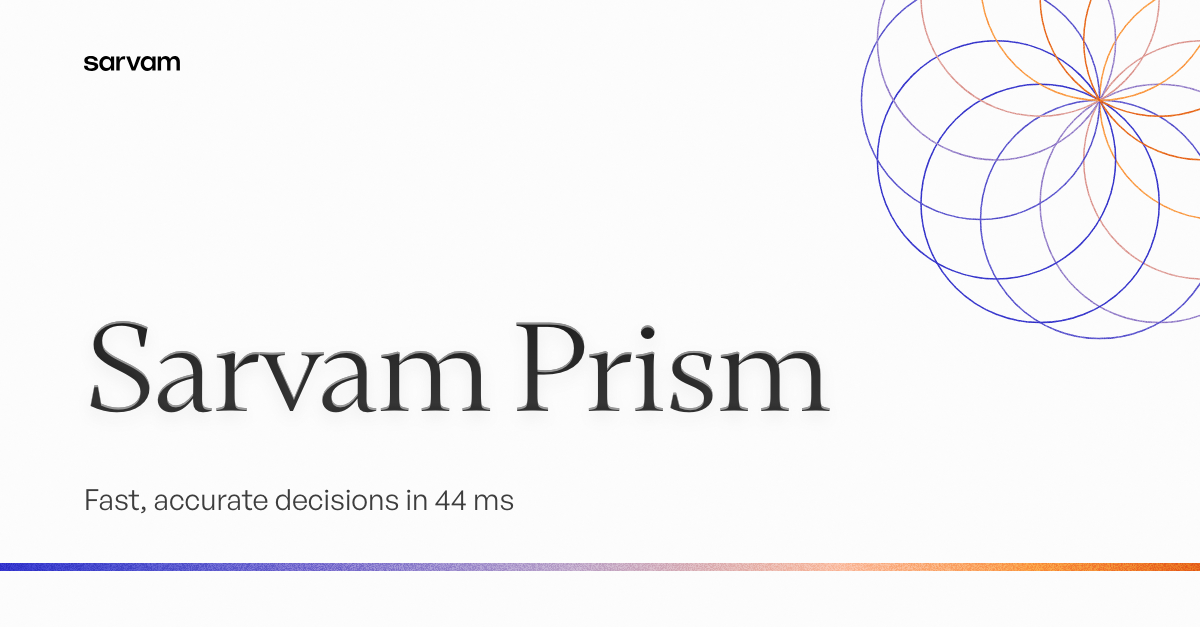
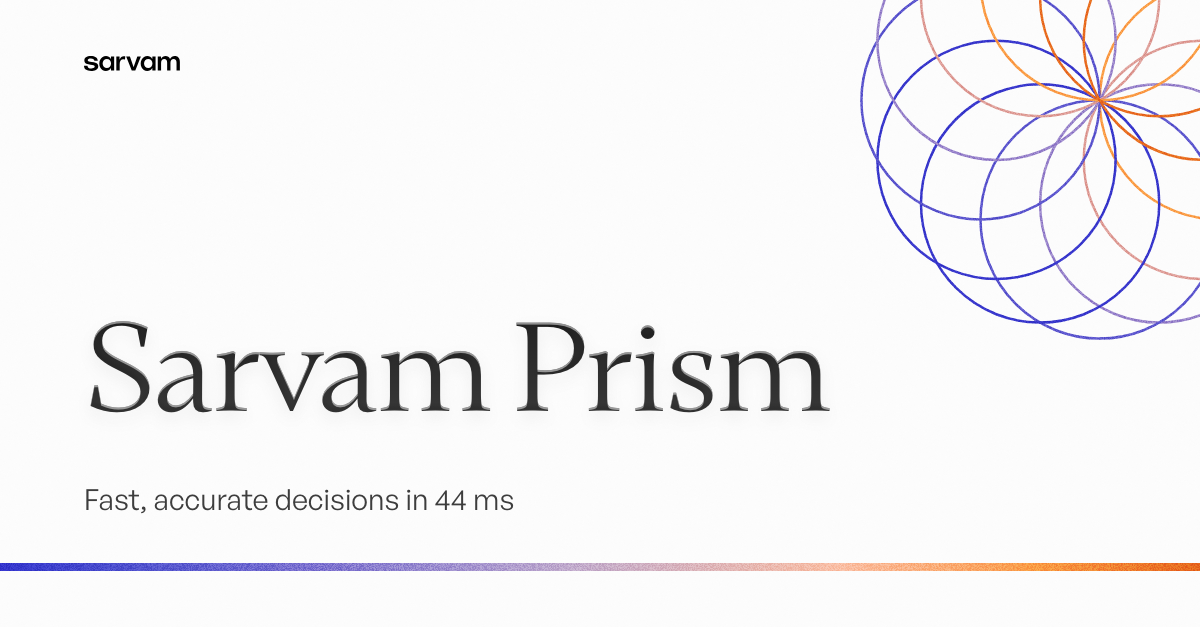
Spectrum rosette: thicker stroke (3px Meta, 2.5px LinkedIn)

diff --git a/src/components/sarvam/composer.tsx b/src/components/sarvam/composer.tsx
@@ -324,7 +324,7 @@ function spectrumAt(t: number) {
 }
 /** Spectrum line: one thin, hard-edged strip of the brand spectrum across a calm canvas, like light through a prism.
  *  The top-right corner holds a rosette built the way Sarvam's logomark is built: ONE element repeated around a centre
- *  (identical shape, identical 1.5px line, even rotation), each copy one hue of the spectrum, cropped by the corner. */
+ *  (identical shape, identical line: 3px Meta / 2.5px LinkedIn, even rotation), each copy one hue of the spectrum, cropped by the corner. */
 function spectrumDevice(spec: BannerSpec, F: Frame, _id: string, land: boolean): DeviceOut {
   const h = land ? 8 : 12, y = F.H - F.M - h;
   const kind = spec.rosette ?? "circles";
@@ -346,7 +346,7 @@ function spectrumDevice(spec: BannerSpec, F: Frame, _id: string, land: boolean):
   const layer = (
     <>
       <svg width={F.W} height={F.H} style={{ position: "absolute", inset: 0 }} aria-hidden>
-        <g fill="none" strokeWidth={1.5} strokeLinejoin="round">{els}</g>
+        <g fill="none" strokeWidth={land ? 2.5 : 3} strokeLinejoin="round">{els}</g>
       </svg>
       <div aria-hidden style={{ position: "absolute", left: 0, right: 0, top: y, height: h, background: SPECTRUM }} />
     </>

diff --git a/design-system/design.md b/design-system/design.md
@@ -1989,7 +1989,7 @@ Every Sarvam banner is a **composition of a few choices + at most two lines of t
    | `gateway-window` | 3 carved layers opening onto warm cream light | Funding, big announcements |
    | `gateway-echo` | 5 thin outline gateways rising from the bottom | Announcements |
       | `gloss` | Mirrored cluster of glossy studio shapes | Events, programs, community |
-   | `spectrum` | **Our taste** `[addition]`: a calm off-white canvas, one thin hard-edged strip of the brand spectrum (indigo → orange) near the bottom, and a **rosette** in the top-right corner, cropped by the corner. It is built the way Sarvam's logomark is built: **one element repeated around a centre** (12 equal circles whose centres sit on a ring and which all pass through the centre; or `rosette: "lobes"`, 12 equal rounded petals). Every copy is the same 1.5px line, and each one takes a hue of the spectrum by its direction: indigo toward the canvas, orange toward the corner. Text is set left and low (`editorial` layout). | Model launches and announcements that should feel calm and precise |
+   | `spectrum` | **Our taste** `[addition]`: a calm off-white canvas, one thin hard-edged strip of the brand spectrum (indigo → orange) near the bottom, and a **rosette** in the top-right corner, cropped by the corner. It is built the way Sarvam's logomark is built: **one element repeated around a centre** (12 equal circles whose centres sit on a ring and which all pass through the centre; or `rosette: "lobes"`, 12 equal rounded petals). Every copy is the same line (3px Meta, 2.5px LinkedIn), and each one takes a hue of the spectrum by its direction: indigo toward the canvas, orange toward the corner. Text is set left and low (`editorial` layout). | Model launches and announcements that should feel calm and precise |
    | `emblem` | One frosted, bevelled medallion with **one Nucleo icon engraved** in it, echo rings on true offsets. Text sits beside it (split on LinkedIn, stacked on Meta). `icon`: shield, plug, check, calendar, search, globe, inbox, megaphone, target, chart, book, sparkle, person | A capability you can name as an object |
    | `arch-window` | The gateway as a **window onto the real product**: a recessed arch (Mihrab / Domed door) standing on the bottom edge, light inside, one frozen product mock (`card`) seen through it. Text beside it | A product moment you can see |
    | `script-mandala` | **"Sarvam" in nine Indian scripts**, set in rings around a glowing disc. Meta: the headline sits in the disc. LinkedIn: the logomark sits in the disc and the text sits left (the wordmark is dropped; never both) `[addition]` | India, languages, mission, sovereignty, people |

diff --git a/design-system/recipes/banner-builder.md b/design-system/recipes/banner-builder.md
@@ -65,7 +65,7 @@ Every Sarvam banner is a **composition of a few choices + at most two lines of t
    | `gateway-window` | 3 carved layers opening onto warm cream light | Funding, big announcements |
    | `gateway-echo` | 5 thin outline gateways rising from the bottom | Announcements |
       | `gloss` | Mirrored cluster of glossy studio shapes | Events, programs, community |
-   | `spectrum` | **Our taste** `[addition]`: a calm off-white canvas, one thin hard-edged strip of the brand spectrum (indigo → orange) near the bottom, and a **rosette** in the top-right corner, cropped by the corner. It is built the way Sarvam's logomark is built: **one element repeated around a centre** (12 equal circles whose centres sit on a ring and which all pass through the centre; or `rosette: "lobes"`, 12 equal rounded petals). Every copy is the same 1.5px line, and each one takes a hue of the spectrum by its direction: indigo toward the canvas, orange toward the corner. Text is set left and low (`editorial` layout). | Model launches and announcements that should feel calm and precise |
+   | `spectrum` | **Our taste** `[addition]`: a calm off-white canvas, one thin hard-edged strip of the brand spectrum (indigo → orange) near the bottom, and a **rosette** in the top-right corner, cropped by the corner. It is built the way Sarvam's logomark is built: **one element repeated around a centre** (12 equal circles whose centres sit on a ring and which all pass through the centre; or `rosette: "lobes"`, 12 equal rounded petals). Every copy is the same line (3px Meta, 2.5px LinkedIn), and each one takes a hue of the spectrum by its direction: indigo toward the canvas, orange toward the corner. Text is set left and low (`editorial` layout). | Model launches and announcements that should feel calm and precise |
    | `emblem` | One frosted, bevelled medallion with **one Nucleo icon engraved** in it, echo rings on true offsets. Text sits beside it (split on LinkedIn, stacked on Meta). `icon`: shield, plug, check, calendar, search, globe, inbox, megaphone, target, chart, book, sparkle, person | A capability you can name as an object |
    | `arch-window` | The gateway as a **window onto the real product**: a recessed arch (Mihrab / Domed door) standing on the bottom edge, light inside, one frozen product mock (`card`) seen through it. Text beside it | A product moment you can see |
    | `script-mandala` | **"Sarvam" in nine Indian scripts**, set in rings around a glowing disc. Meta: the headline sits in the disc. LinkedIn: the logomark sits in the disc and the text sits left (the wordmark is dropped; never both) `[addition]` | India, languages, mission, sovereignty, people |

diff --git a/process/prompt-log.md b/process/prompt-log.md
@@ -404,3 +404,7 @@ Entry format:
   - petals on a ring: kept as the `rosette: "lobes"` option
 - Fix after looking: on LinkedIn the rosette came close to "Prism" → R 0.38·H, pushed further into the corner. QA PASS, re-exported.
 - Rule added to banner-builder.md §6: ornaments are one identical element repeated by rotation, never offsets of a complex shape.
+
+## 2026-11-04 — Rosette stroke thicker
+- Prompt (verbatim): "great, loved it, but with a somewhat thicker pattern, thicker stroke"
+- Rosette line 1.5px → 3px (Meta) / 2.5px (LinkedIn): about 2× the old weight, so it holds at phone size (~375px wide: 3px reads as ~1px). QA PASS, re-exported.
